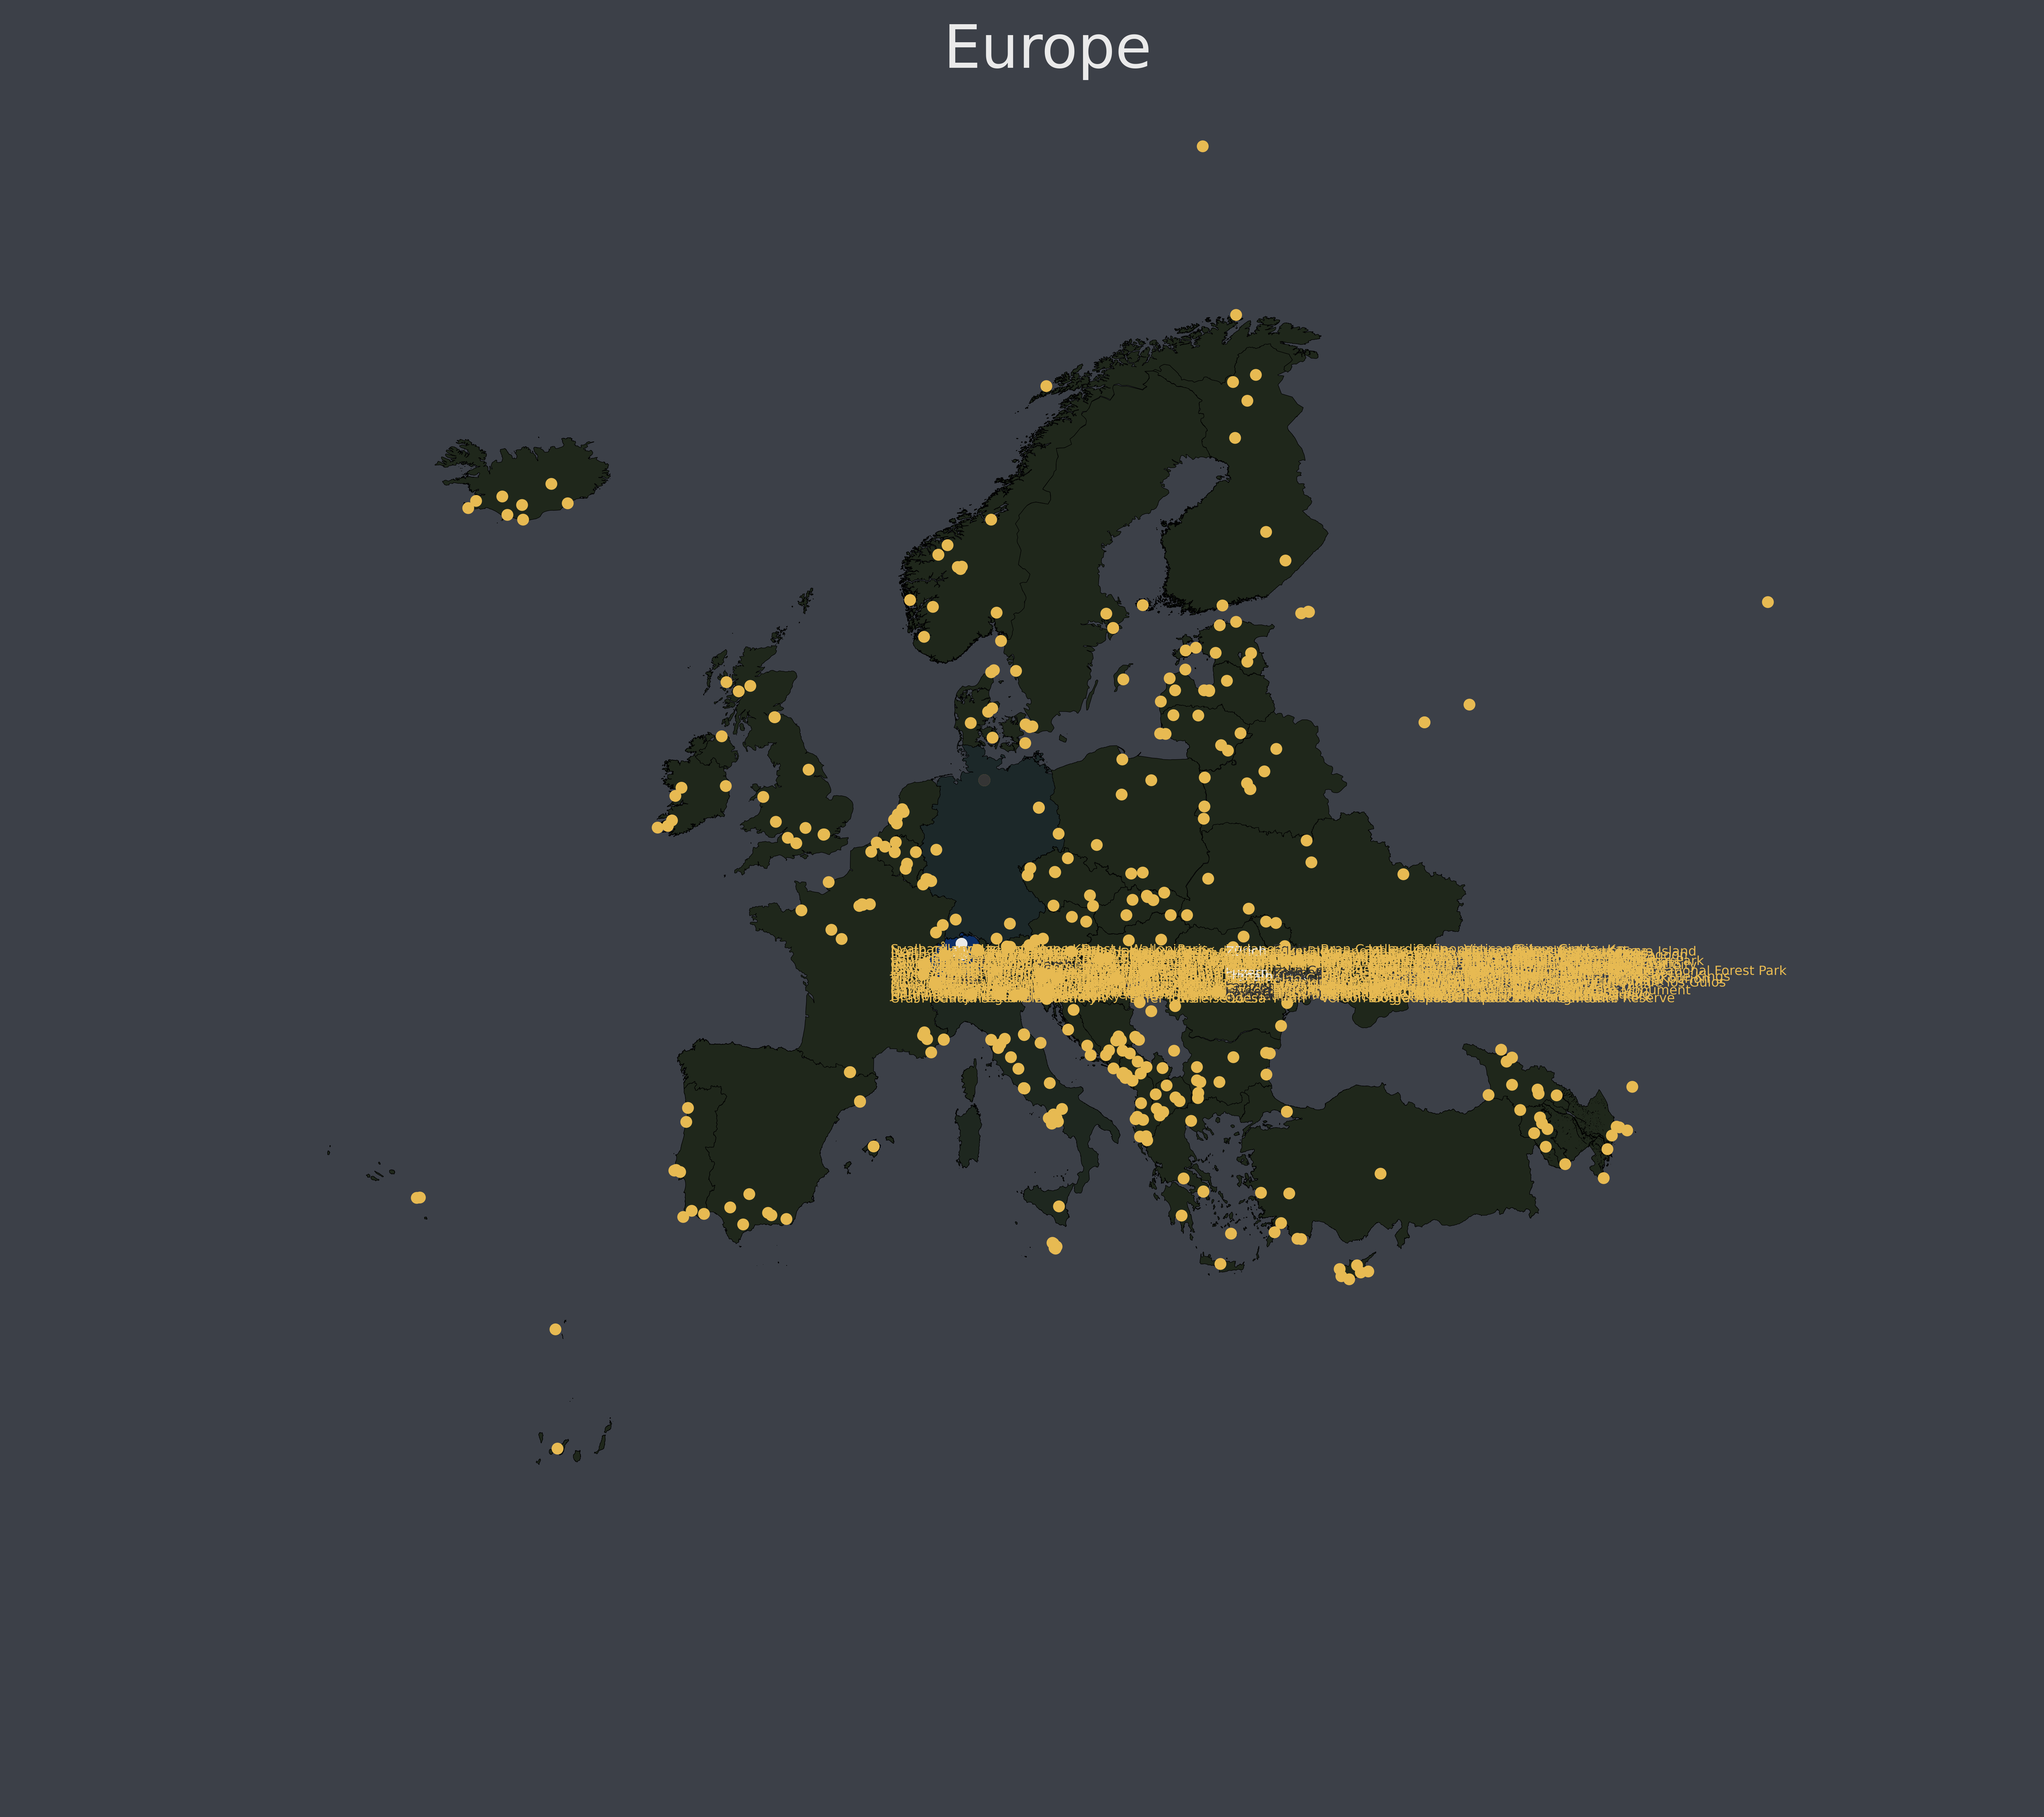
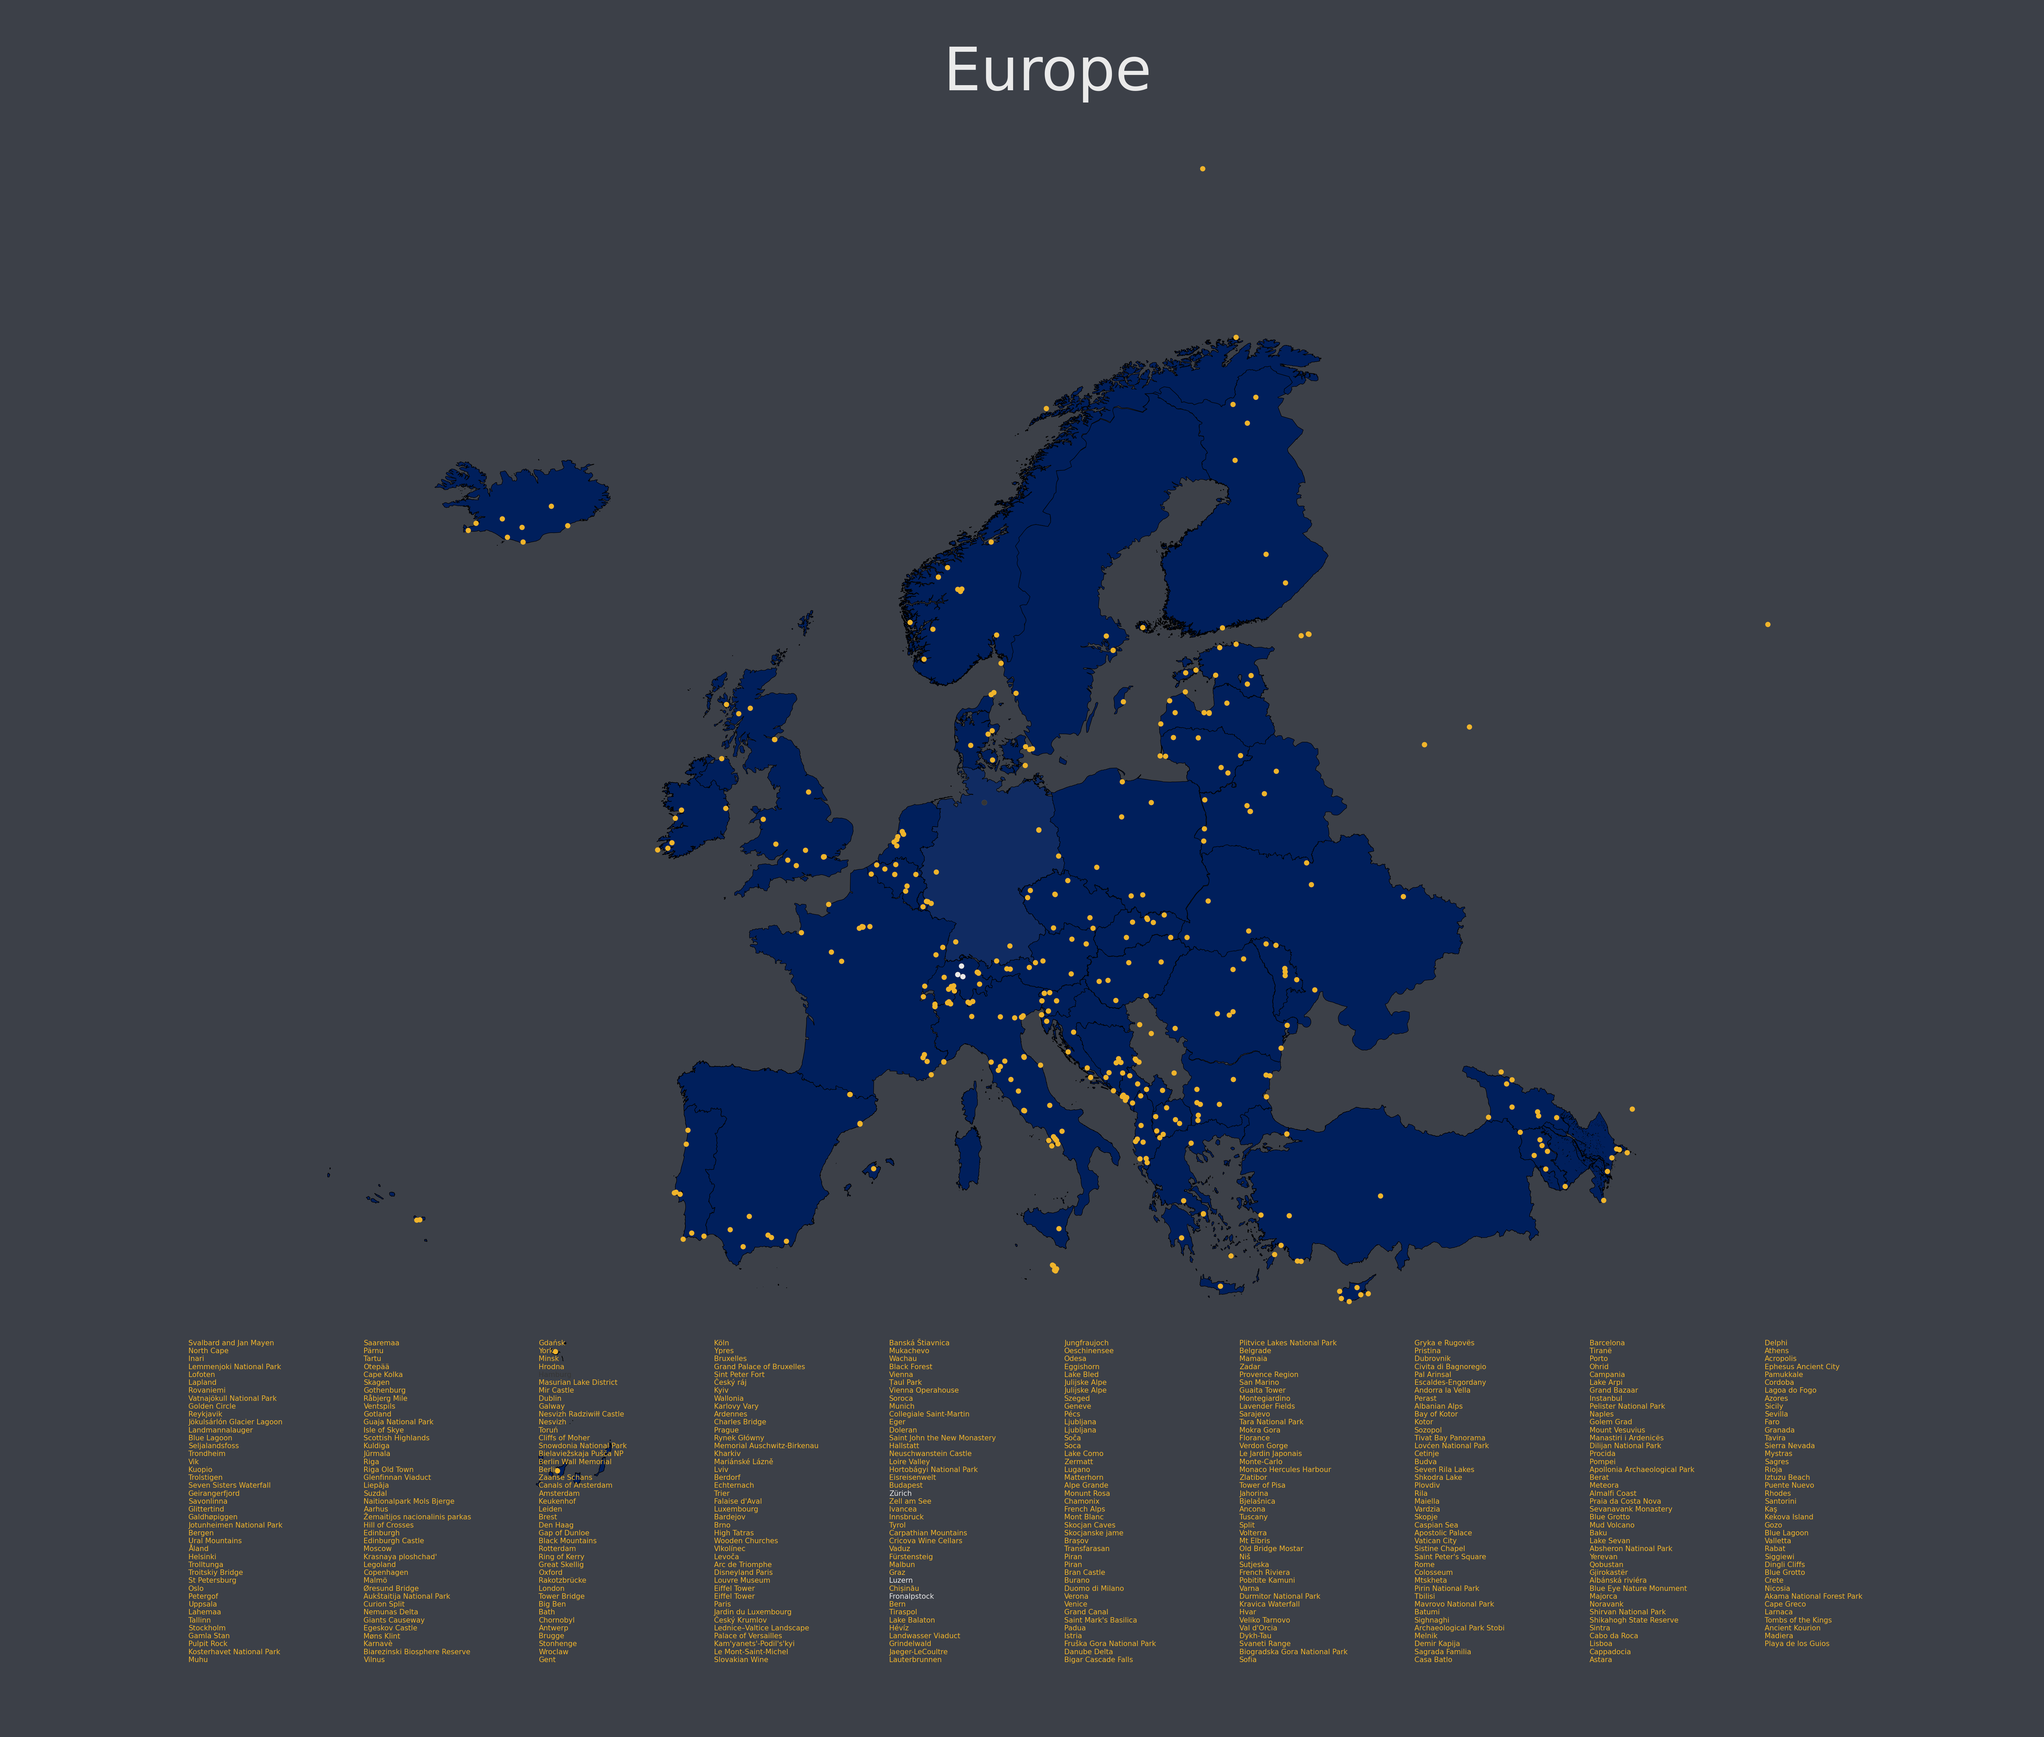
update the labels

diff --git a/main.py b/main.py
@@ -13,7 +13,7 @@ from colormap import custom_cmap
 
 
 # Set global variables, directories for map creation and site locations
-SCALE = 3
+SCALE = 5
 
 # US National Park Global Variables
 #PATH = "us"
